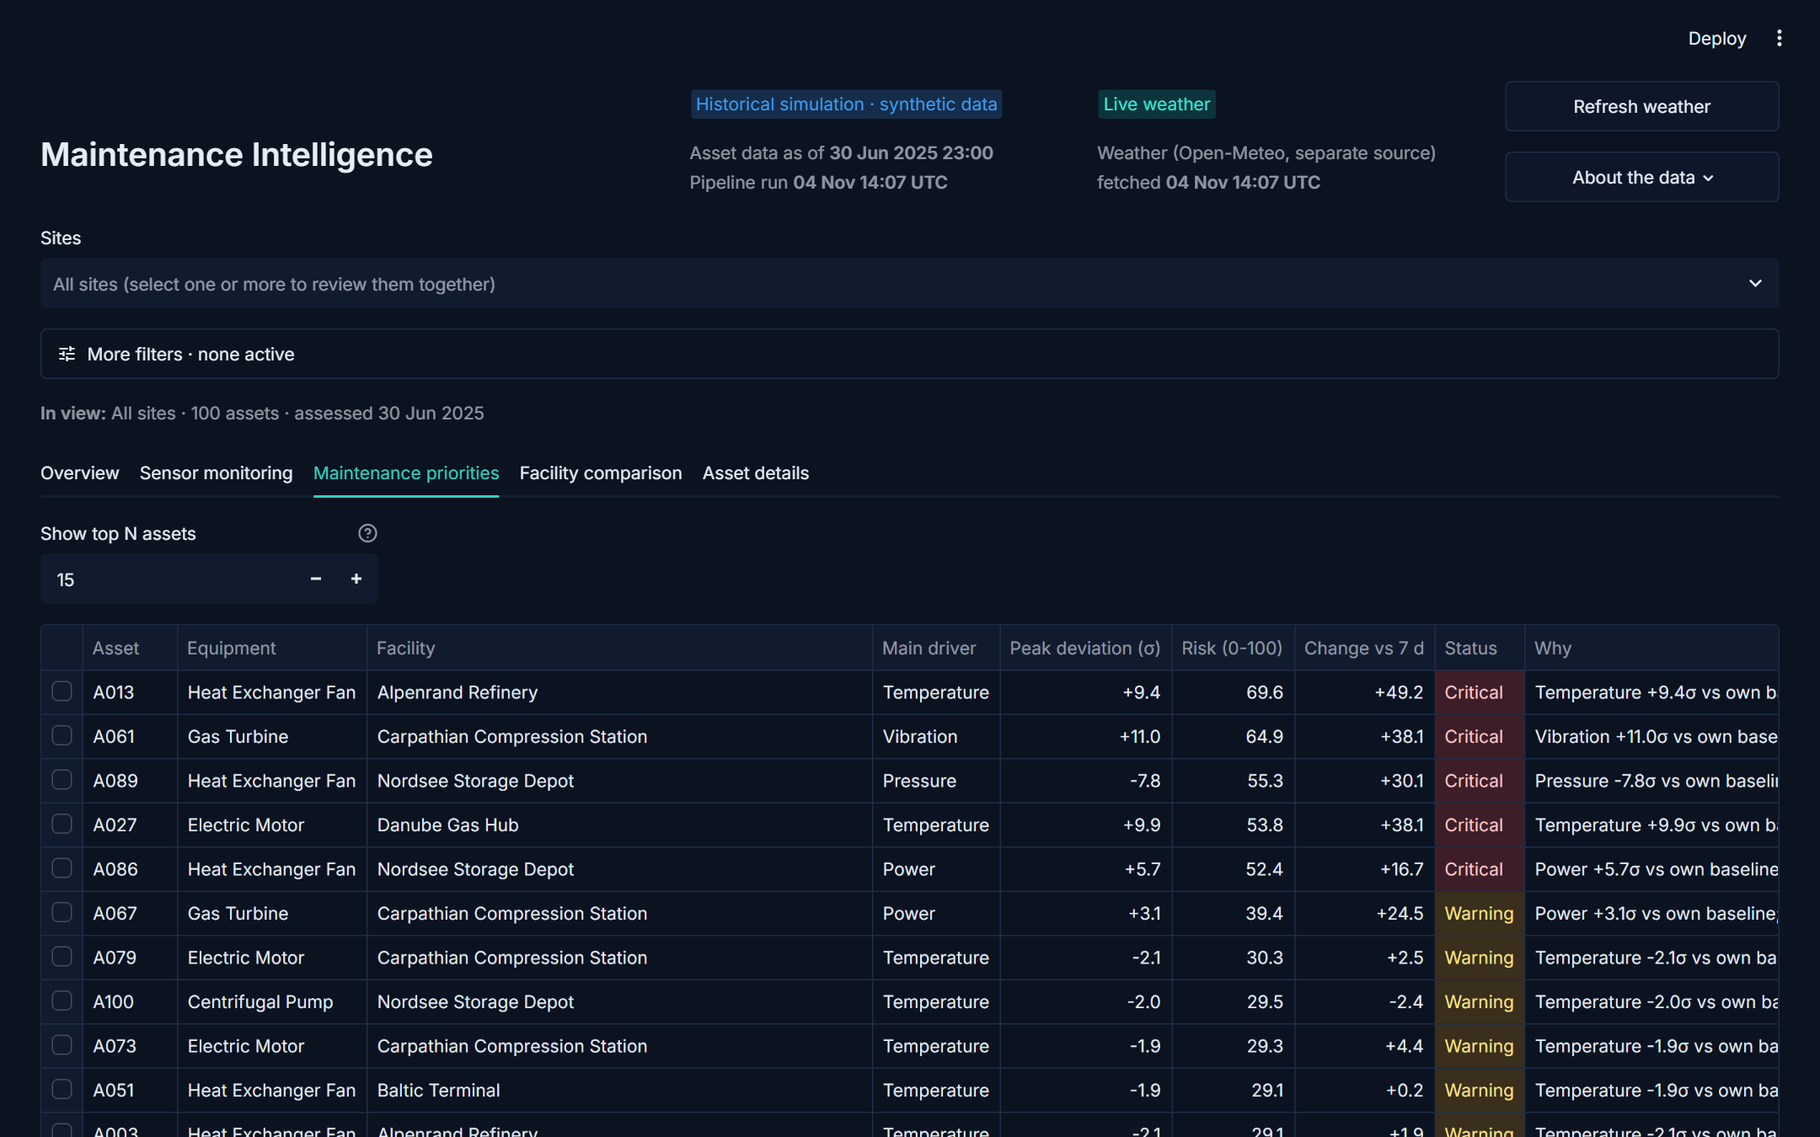
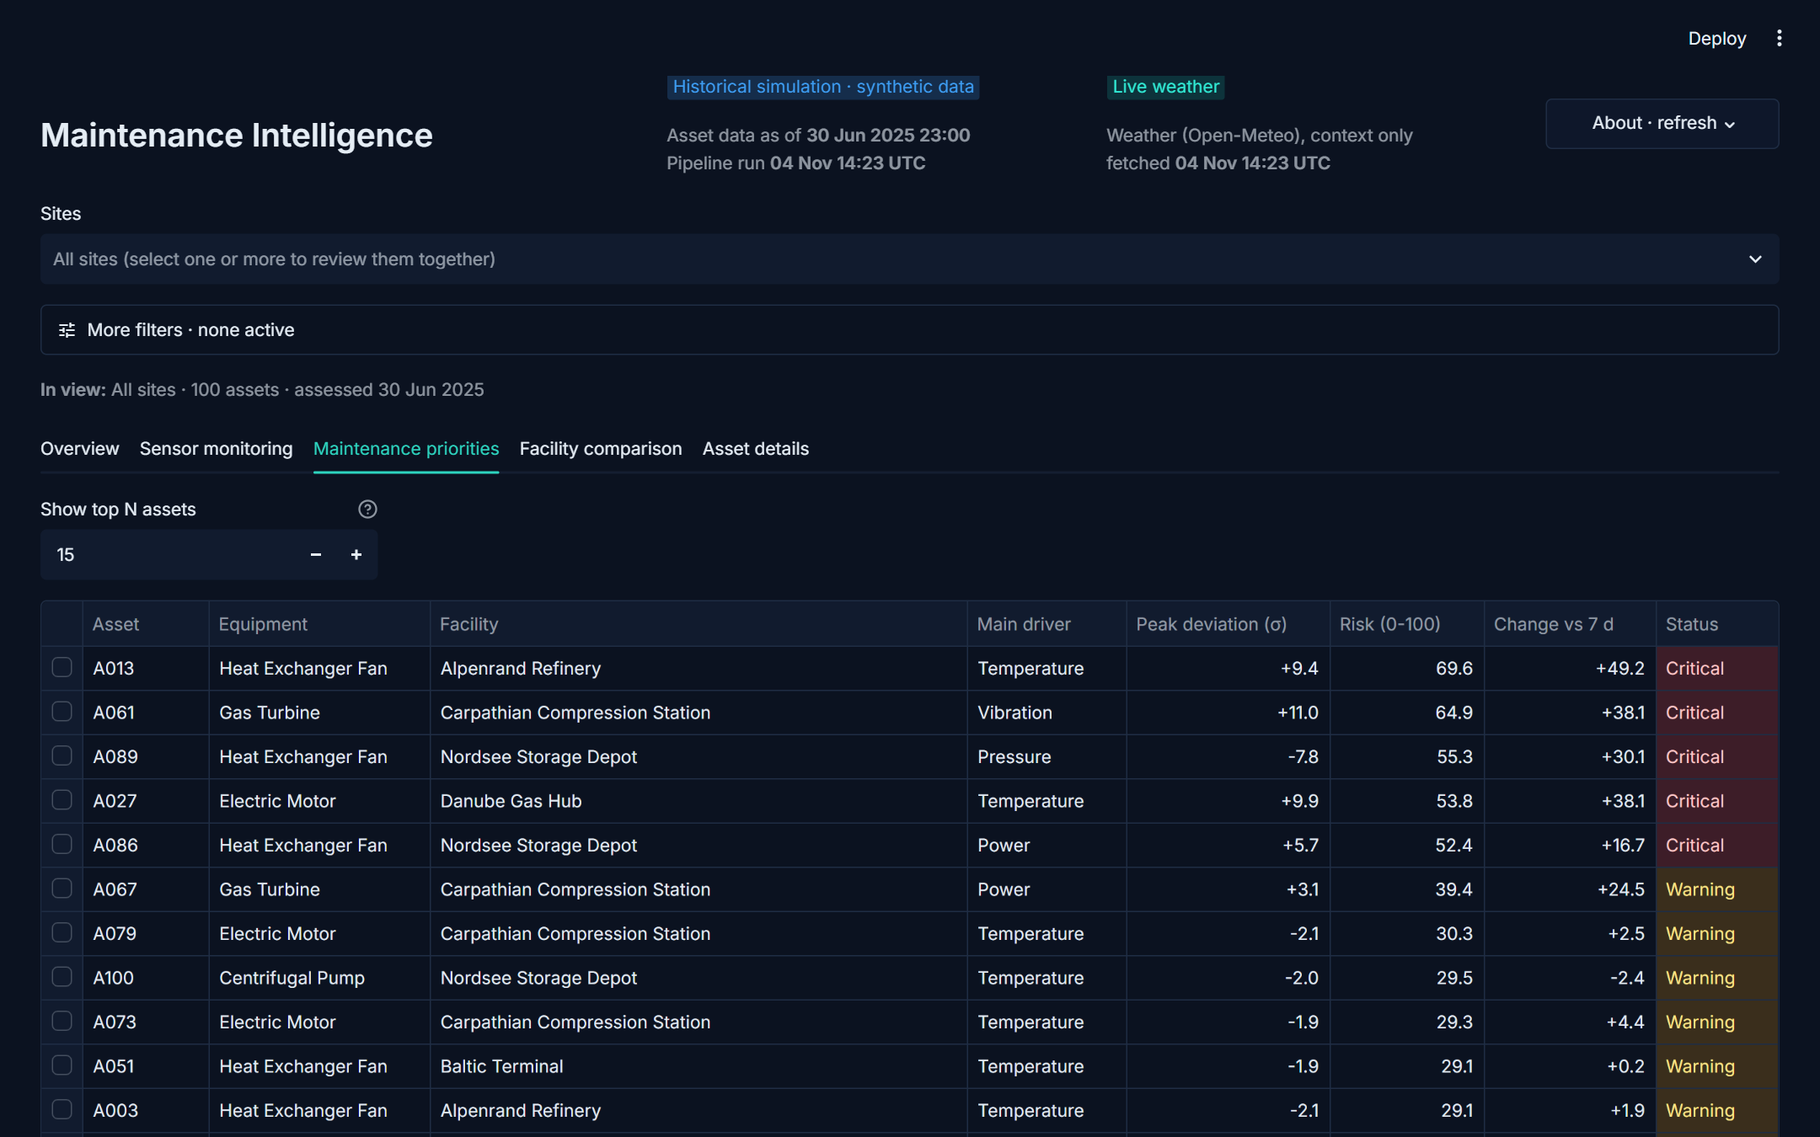
Pre-ship fixes: shared selected asset, readable evidence, latest reading, compact header, dated exports, adoption gaps

diff --git a/app.py b/app.py
@@ -10,7 +10,7 @@ from mi.data_gen import SENSORS
 from mi.weather import get_current
 
 st.set_page_config("Maintenance Intelligence", ":material/monitoring:", layout="wide", initial_sidebar_state="collapsed")
-st.markdown("<style>.block-container { padding: 3rem 2rem 2rem; max-width: 1600px; }</style>", unsafe_allow_html=True)  # no native setting for page padding
+st.markdown("<style>.block-container { padding: 2.4rem 2rem 2rem; max-width: 1600px; } @media (max-width: 768px) { .block-container { padding: 2.2rem .75rem 2rem; } }</style>", unsafe_allow_html=True)  # no native setting for page padding
 pio.templates["mi"] = pio.templates["plotly_dark"]
 pio.templates["mi"].layout.update(paper_bgcolor="rgba(0,0,0,0)", plot_bgcolor="rgba(0,0,0,0)", font_family="Inter",
                                   margin=dict(l=10, r=30, t=40, b=10), title_font_size=14, hovermode="x unified")
@@ -54,7 +54,7 @@ def risks(as_of):
     return P.risk_table(R, assets, D["maint"], as_of).join(fac.set_index("facility_id").name.rename("facility"), on="facility_id")
 
 
-def sensor_fig(a, sensors, start, end, truth=True):
+def sensor_fig(a, sensors, start, end, truth=False):
     d = R[(R.asset_id == a) & R.timestamp.between(start, end)]
     fig = make_subplots(rows=len(sensors), cols=1, shared_xaxes=True, subplot_titles=[LBL[s] for s in sensors], vertical_spacing=0.08)
     ep = D["episodes"][(D["episodes"].asset_id == a) & (D["episodes"].end >= start) & (D["episodes"].start <= end)]
@@ -86,7 +86,13 @@ def table(data, **kw):
 
 
 def go(asset):
-    ss["d"], ss["tab"] = asset, "Asset details"
+    ss["d"] = ss["m"] = asset  # one selected asset for both the monitoring and details tabs
+    ss["tab"] = "Asset details"
+
+
+def sync_asset(src):
+    """Keep the Sensor monitoring and Asset details pickers on the same asset."""
+    ss["m" if src == "d" else "d"] = ss[src]
 
 
 def open_asset(key):
@@ -103,24 +109,26 @@ def reset():
 live_df, fetched = live(fac)
 now = pd.Timestamp.now("UTC")
 data_ok = now - LAST.tz_localize("UTC") < pd.Timedelta(hours=2)
-h = st.columns([2, 1.25, 1.25, 0.9], vertical_alignment="center")
+h = st.columns([2, 1.4, 1.4, 0.8], vertical_alignment="center")
 h[0].title("Maintenance Intelligence")
 with h[1]:
     st.badge("Live data" if data_ok else "Historical simulation · synthetic data", color="green" if data_ok else "blue")
     st.caption(f"Asset data as of **{LAST:%d %b %Y %H:%M}**  \nPipeline run **{synced:%d %b %H:%M UTC}**")
 with h[2]:
     st.badge("Live weather" if not live_df.empty else "Sync failed", color="green" if not live_df.empty else "red")
-    st.caption("Weather (Open-Meteo, separate source)  \n" + (f"fetched **{fetched:%d %b %H:%M UTC}**" if not live_df.empty else "live feed unavailable"))
+    st.caption("Weather (Open-Meteo), context only  \n" + (f"fetched **{fetched:%d %b %H:%M UTC}**" if not live_df.empty else "live feed unavailable"))
 with h[3]:
-    if st.button("Refresh weather", width="stretch", help="Re-fetches live weather. Asset data is a fixed synthetic snapshot."):
-        live.clear()
-        st.rerun()
-    with st.popover("About the data", width="stretch"):
+    with st.popover("About · refresh", width="stretch"):
+        if st.button("Refresh weather", width="stretch", help="Re-fetches live weather. Asset data is a fixed synthetic snapshot."):
+            live.clear()
+            st.rerun()
         st.markdown("**Asset data is fully synthetic** (100 fictional assets, 5 fictional facilities).  \n"
                     f"**Weather:** live conditions from the Open-Meteo forecast API; model history from the Open-Meteo archive "
                     f"({'/'.join(sorted(D['weather'].weather_source.unique()))}).  \n"
-                    "**Alerts** = hours flagged by the Isolation Forest. **Critical** = risk score > 40 (Warning 25-40, Normal < 25).  \n"
-                    "**Sharing:** the page address holds your filters, tab and selected asset. Copy it to share this exact view.")
+                    "**Alerts** = hours flagged by the Isolation Forest. **Critical** = risk above 40, **Warning** = above 25 up to 40, **Normal** = 25 or less.  \n"
+                    "**What the score is:** it ranks assets for inspection from anomaly detection, criticality and maintenance history. It is not a failure prediction and has not been validated on real plant data.  \n"
+                    "**Weather** is shown for context only; the risk results come from the historical simulation.  \n"
+                    "**Sharing:** the page address holds your sites, filters, tab and selected asset. Copy it to share this exact view.")
 
 # ---- Shareable view: filters and asset live in the URL (?site=..&type=..&period=7&date=2025-06-20&asset=A061)
 qp = st.query_params
@@ -145,9 +153,9 @@ with st.expander(f"More filters · {n_active} active" if n_active else "More fil
     c = st.columns([2, 1.4, 1.4, 0.8], vertical_alignment="bottom")
     tsel = c[0].multiselect("Asset types", sorted(assets.asset_type.unique()), key="tsel",
                             placeholder="All asset types (type to search)") or sorted(assets.asset_type.unique())
-    period = int((c[1].segmented_control("Analysis period", ["7", "30", "90"], default="30", format_func=lambda d: f"{d} d", key="period") or "30"))
+    period = int((c[1].segmented_control("Chart and alert window", ["7", "30", "90"], default="30", format_func=lambda d: f"{d} d", key="period", help="Sets the window for charts and the alert count. Risk itself is always scored on the last 7 days.") or "30"))
     day = c[2].date_input("Risk assessment date", LAST.date(), min_value=(R.timestamp.min() + pd.Timedelta(days=8)).date(),
-                          max_value=LAST.date(), key="asof", help="Risk is scored on the 7 days before this date. Default: latest data.")
+                          max_value=LAST.date(), key="asof", help="Risk is always scored on the 7 days before this date. Default: latest data.")
     c[3].button("Reset all", on_click=reset, width="stretch")
 as_of = min(pd.Timestamp(day) + pd.Timedelta(hours=23), LAST)
 T = risks(as_of)
@@ -187,7 +195,7 @@ with tabs[0]:
             st.button("Investigate", key=f"go_{r.asset_id}", on_click=go, args=(r.asset_id,), icon=":material/arrow_forward:", width="stretch")
 
     for col, (lbl, val, sub, delta) in zip(st.columns(4), [
-            ("Assets monitored", len(T), f"Across {T.facility.nunique()} facilities", None),
+            ("Assets assessed", len(T), f"Across {T.facility.nunique()} facilities", None),
             ("Critical assets", n_crit, f"{n_crit / len(T):.0%} of assets · risk > 40", None if n_crit_prev is None else ("No change vs 7 d earlier" if n_crit_prev == n_crit else f"{n_crit - n_crit_prev:+d} vs 7 d earlier")),
             ("Average risk", f"{T.risk.mean():.1f}", "Scale 0-100", None if avg_prev is None else f"{T.risk.mean() - avg_prev:+.1f} vs 7 d earlier"),
             ("Model alerts", f"{n_alerts:,}", f"Alert-hours, last {period} days", None)]):
@@ -235,7 +243,7 @@ with tabs[0]:
         show(px.imshow(hm, text_auto=".0f", color_continuous_scale=SCALE, zmin=15, zmax=45, aspect="auto",
                                   labels={"color": "Avg risk", "x": "", "y": ""})
                         .update_xaxes(side="top").update_layout(height=H, coloraxis_showscale=False, margin=dict(l=0, r=0, t=0, b=0)), width="stretch")
-        st.caption("Cell colour = average risk: teal below 25, amber 25 to 40, red above 40.")
+        st.caption("Cell colour = average risk: teal 25 or below, amber above 25 to 40, red above 40.")
 
     with st.container(border=True):
         st.subheader("Live conditions at facilities")
@@ -264,8 +272,9 @@ with tabs[0]:
 
 with tabs[1]:
     c = st.columns([2, 1, 1], vertical_alignment="bottom")
-    a = c[0].selectbox("Asset", list(T.asset_id), format_func=lambda x: f"{x} · {T.set_index('asset_id').asset_name[x]}", key="m", help="Type to search. The list follows the Facilities and Asset types filters at the top.")
-    s = c[1].selectbox("Sensor", ["All"] + SENSORS)
+    a = c[0].selectbox("Asset", list(T.asset_id), format_func=lambda x: f"{x} · {T.set_index('asset_id').asset_name[x]}", key="m", on_change=sync_asset, args=("m",), help="Type to search. The list follows the Facilities and Asset types filters at the top.")
+    main_sensor = T.set_index("asset_id").driver[a]  # open on the sensor driving this asset's risk, not four tall charts
+    s = c[1].selectbox("Sensor", ["All"] + SENSORS, index=1 + SENSORS.index(main_sensor), format_func=lambda x: x if x == "All" else LBL[x])
     truth = c[2].toggle("Show simulated fault periods", False, help="Orange bands mark the faults injected into the synthetic data. They are evaluation labels, not model output.")
     win = R[(R.asset_id == a) & R.timestamp.between(as_of - pd.Timedelta(days=period), as_of)]
     if win.empty or win[SENSORS].isna().all(axis=None):
@@ -279,15 +288,17 @@ with tabs[1]:
 with tabs[2]:
     n = int(st.columns([1, 4])[0].number_input("Show top N assets", 1, len(T), min(15, len(T)), help=f"Shows the N highest-risk assets after filtering ({len(T)} match). Type a number or use +/-."))
     top = T.head(n)
-    cols = ["asset_id", "asset_type", "facility", "driver_label", "peak_z", "risk", "change", "status", "explanation"]
+    cols = ["asset_id", "asset_type", "facility", "driver_label", "peak_z", "risk", "change", "status"]
     ss["prio2_ids"] = list(top.asset_id)
-    table(tint(top[cols].reset_index(drop=True), ["status"]), width="stretch", hide_index=True, height=min(740, 38 + 35 * n), on_select=lambda: open_asset("prio2"), selection_mode="single-row", key="prio2", alt="Maintenance priorities with driver, deviation, risk, severity and explanation. Select a row to open the asset.", column_config={
+    table(tint(top[cols].reset_index(drop=True), ["status"]), width="stretch", hide_index=True, height=min(740, 38 + 35 * n), on_select=lambda: open_asset("prio2"), selection_mode="single-row", key="prio2", alt="Maintenance priorities with driver, deviation, risk and severity. Select a row to open the asset.", column_config={
         "asset_id": st.column_config.TextColumn("Asset", width="small"), "asset_type": "Equipment", "facility": st.column_config.TextColumn("Facility", width="large"), "status": "Status",
         "driver_label": "Main driver", "peak_z": st.column_config.NumberColumn("Peak deviation (σ)", format="%+.1f"), "change": st.column_config.NumberColumn("Change vs 7 d", format="%+.1f"),
         "explanation": st.column_config.TextColumn("Why", width="large"),
         "risk": st.column_config.NumberColumn("Risk (0-100)", format="%.1f")})
-    st.download_button("Download ranking (CSV)", top[cols + ["criticality"]].to_csv(index=False), "maintenance_priorities.csv")
-    st.caption("Select a row to open that asset in Asset details. risk = 100 × (0.5·sensor deviation + 0.3·alert share + 0.2·maintenance overdue) × criticality multiplier (0.7–1.0)")
+    with st.expander("Why each asset is flagged", icon=":material/notes:"):
+        st.markdown("\n".join(f"- **{r.asset_id}** ({r.status}): {r.explanation}" for r in top.itertuples()))
+    st.download_button("Download ranking (CSV)", top[cols + ["criticality", "explanation"]].to_csv(index=False), f"maintenance_priorities_{as_of:%Y-%m-%d}.csv")
+    st.caption("Select a row to open that asset in Asset details. risk = 100 × (0.5·sensor deviation + 0.3·alert share + 0.2·time since maintenance) × criticality multiplier (about 0.64 to 1.0)")
 
 with tabs[3]:
     g = T.groupby("facility").agg(avg_risk=("risk", "mean"), critical=("level", lambda x: (x == "High").sum()),
@@ -305,10 +316,11 @@ with tabs[3]:
         show(px.imshow(pv.rename(index=lambda s: s.split()[0], columns=lambda s: s.replace(" ", "<br>", 1)), text_auto=True, color_continuous_scale=SCALE, zmin=15, zmax=45,
                        labels={"color": "Avg risk", "x": "", "y": ""}, aspect="auto").update_traces(textfont_color="#0b1220")
              .update_xaxes(side="top", tickangle=0).update_layout(height=H, coloraxis_showscale=False, margin=dict(l=0, r=0, t=40, b=0)), alt="Average risk for each facility and equipment type")
-        st.caption("Cell colour = average risk of the assets in that cell: teal below 25, amber 25 to 40, red above 40.")
+        st.caption("Cell colour = average risk of the assets in that cell: teal 25 or below, amber above 25 to 40, red above 40.")
     table(g.sort_values(["critical", "avg_risk"], ascending=False).round(2), alt="Facility summary: average risk, critical and warning assets, share of hours alerted", hide_index=True, column_config={
         "facility": "Facility", "avg_risk": st.column_config.NumberColumn("Average risk", format="%.1f"), "critical": "Critical", "warning": "Warning",
         "alert_share": st.column_config.NumberColumn("Share of hours alerted", format="percent"), "assets": "Assets"})
+    st.download_button("Download facility summary (CSV)", g.sort_values(["critical", "avg_risk"], ascending=False).round(2).to_csv(index=False), f"facility_summary_{as_of:%Y-%m-%d}.csv")
     w = D["weather"].merge(fac[["facility_id", "name"]], on="facility_id")
     w = w[w.name.isin(fsel)].groupby(["name", pd.Grouper(key="timestamp", freq="D")])[["ambient_temp_c", "humidity_pct"]].mean().reset_index()
     a, b = st.columns(2)
@@ -318,7 +330,7 @@ with tabs[3]:
             show(px.line(w, x="timestamp", y=y, color="name", labels={"timestamp": "", y: unit, "name": ""}).update_layout(height=H, margin=dict(l=0, r=10, t=10, b=0), legend=dict(orientation="h", y=-0.15)),
                  alt=f"{title}, historical, per facility")
 with tabs[4]:
-    a = st.selectbox("Asset", list(T.asset_id), format_func=lambda x: f"{x} · {T.set_index('asset_id').asset_name[x]}", key="d", help="Type to search. The list follows the Facilities and Asset types filters at the top.")
+    a = st.selectbox("Asset", list(T.asset_id), format_func=lambda x: f"{x} · {T.set_index('asset_id').asset_name[x]}", key="d", on_change=sync_asset, args=("d",), help="Type to search. The list follows the Facilities and Asset types filters at the top.")
     row = T.set_index("asset_id").loc[a]
     with st.container(border=True):
         st.markdown(f"**{row.asset_name}** · {row.facility}")
@@ -339,7 +351,10 @@ with tabs[4]:
                     title="Deviation from own baseline: 7-day peak vs latest reading (dashed lines = ±3σ)")
              .add_vline(x=0, line_color="#94a3b8").add_vline(x=3, line_dash="dash", line_color="#475569").add_vline(x=-3, line_dash="dash", line_color="#475569")
              .update_layout(height=300, yaxis_title=None, legend=dict(orientation="h", y=-0.2, title=None)), alt="Peak versus latest deviation from baseline for each sensor")
-        st.caption("A high peak with a low latest value means the condition has eased since; both high means it is still ongoing.")
+        worst = last.abs().idxmax()
+        st.markdown(f"**Latest reading** (6 h mean to {as_of:%d %b %Y %H:%M}): largest deviation is **{DRV[worst[3:]]} {last[worst]:+.1f}σ**, "
+                    f"{'outside' if abs(last[worst]) > 3 else 'within'} the ±3σ normal range. **7-day peak:** {DRV[peak.abs().idxmax()[3:]]} {peak[peak.abs().idxmax()]:+.1f}σ.")
+        st.caption("A high peak with a low latest value means the condition has eased since; both high means it is still ongoing. \"Latest\" is the end of the assessed period, not today.")
     show(sensor_fig(a, SENSORS, as_of - pd.Timedelta(days=30), as_of), width="stretch", key="detail_trend")
     st.subheader("Maintenance history")
     mh = D["maint"][D["maint"].asset_id == a].sort_values("date", ascending=False).drop(columns=["asset_id"])
@@ -347,7 +362,7 @@ with tabs[4]:
 
 # ---- write the current view back to the URL so it can be shared
 for key, val in {"site": ss.get("fsel"), "type": ss.get("tsel"), "period": ss.get("period") if ss.get("period") != "30" else None,
-                 "date": str(day) if day != LAST.date() else None, "asset": ss.get("d") if ss.get("tab") == "Asset details" else None}.items():
+                 "date": str(day) if day != LAST.date() else None, "asset": ss.get("d") if ss.get("tab") in ("Asset details", "Sensor monitoring") else None}.items():
     if val:
         qp[key] = val
     elif key in qp:

diff --git a/README.md b/README.md
@@ -45,6 +45,11 @@ Both versions are Streamlit apps on the same analysis (`mi/`), so the risk score
 | Finding an asset | Asset list with no hint about how it was narrowed | Tooltip: type to search; the list follows the Facilities and Asset types filters | Discoverable without a second picker. |
 | Reviewing several sites | Facilities hidden inside a collapsed filter panel | A visible **Sites** picker: choose one or several sites, with an 'In view' line (sites, asset count, assessment date) above every tab | You always know exactly which sites you are looking at. |
 | Errors and empty states | Generic warning or a raw error | Plain messages for: data could not be prepared, no assets match (with a Clear filters button), a stale shared link, no readings or standby assets, weather unavailable for a site, and not enough history for the 7-day comparison | Nothing fails silently, and missing data is never shown as zero. |
+| Consistency and wording | Investigate updated only one asset picker; Asset details showed the simulated fault bands by default; labels said 0.7 to 1.0 and 'maintenance overdue'; 'Analysis period' implied it changed the risk | One selected asset across tabs; fault bands off everywhere unless switched on; multiplier shown as about 0.64 to 1.0 and 'time since maintenance'; the window is called 'Chart and alert window', and risk is stated as always scored on the last 7 days | Numbers and labels now match what the code computes. |
+| Header and reading order | Two stacked header buttons and a tall header before the first asset | One compact 'About · refresh' menu; the top-three assets sit higher; mobile padding reduced | The first decision is visible sooner. |
+| Evidence in the priorities tab | A 'Why' column cut off at the table edge | Short table plus a readable 'Why each asset is flagged' list; the CSV keeps the full explanation and is dated | Nothing is clipped, and exports are reproducible. |
+| Is it still happening? | Peak and latest bars only | A sentence stating the latest reading, its timestamp, and the 7-day peak | No interpretation needed. |
+| Sensor monitoring | Four tall charts by default | Opens on the sensor driving that asset's risk; selected asset is kept in the shareable link | Less scrolling, and links reopen the same asset. |
 | Small screens | Status badges wrapped over several lines | Badges stay on one line and stack cleanly on phones | Usable on a phone. |
 
 | Version 1 | Version 2 |
@@ -79,12 +84,12 @@ The Isolation Forest says "this hour looks unlike this asset's normal". It does 
 | Tab | What it shows |
 |---|---|
 | **Overview** | Data-freshness header, four KPIs, ranked priorities table, facility risk map, risk by facility, facility x asset-type heatmap, live weather per site, model performance. |
-| **Sensor monitoring** | Any asset and sensor over 7/30/90 days, red dots for model alerts, orange bands for the injected (true) fault episodes. |
+| **Sensor monitoring** | Any asset and sensor over 7/30/90 days, red dots for model alerts, optional orange bands (switch) for the injected, simulated fault periods. |
 | **Maintenance priorities** | Top-N assets by risk with severity colours, full table with explanations, CSV download. |
 | **Facility comparison** | Risk by facility and by facility x type, plus weather history. |
 | **Asset details** | Risk, criticality, "why this alert?", current sensor deviation, 30-day trend and maintenance history. |
 
-Severity is always colour **and** text: **Normal** (risk < 25), **Warning** (25-40), **Critical** (> 40). The filters (facility, asset type, 7/30/90-day period, risk date) apply to every tab.
+Severity is always colour **and** text: **Normal** (risk 25 or less), **Warning** (above 25 up to 40), **Critical** (above 40). The filters (sites, asset type, risk date and the 7/30/90-day chart window) apply to every tab. Risk itself is always scored on the 7 days before the risk date.
 
 | Sensor monitoring | Maintenance priorities |
 |---|---|
@@ -150,6 +155,9 @@ See [docs/data_dictionary.md](docs/data_dictionary.md) and [docs/architecture.md
 3. **Failure prediction:** with real failure records, add time-to-failure models and calibrated probabilities.
 4. **Better models:** compare autoencoders or per-asset-type models, using a proper validation window.
 5. **Operations:** scheduled refresh, alert notifications, Docker deployment, and a button to mark an alert as a false alarm so the system learns from it.
+## Not in the demo (adoption gaps)
+These are intentionally not faked: recording who reviewed or acknowledged an alert, review history, team permissions, scheduled shift reports, facility-level reports beyond the CSV exports, integration with a maintenance system, and validation of the risk score on real plant data. The score ranks assets for inspection; it is not a failure prediction.
+
 ## Limitations
 
 Synthetic faults are cleaner than real ones. There is one model for the whole fleet. The alert quantile was chosen on the test period, so scores are slightly optimistic (a real project would use a separate validation window). Score weights are heuristics, not learned.
